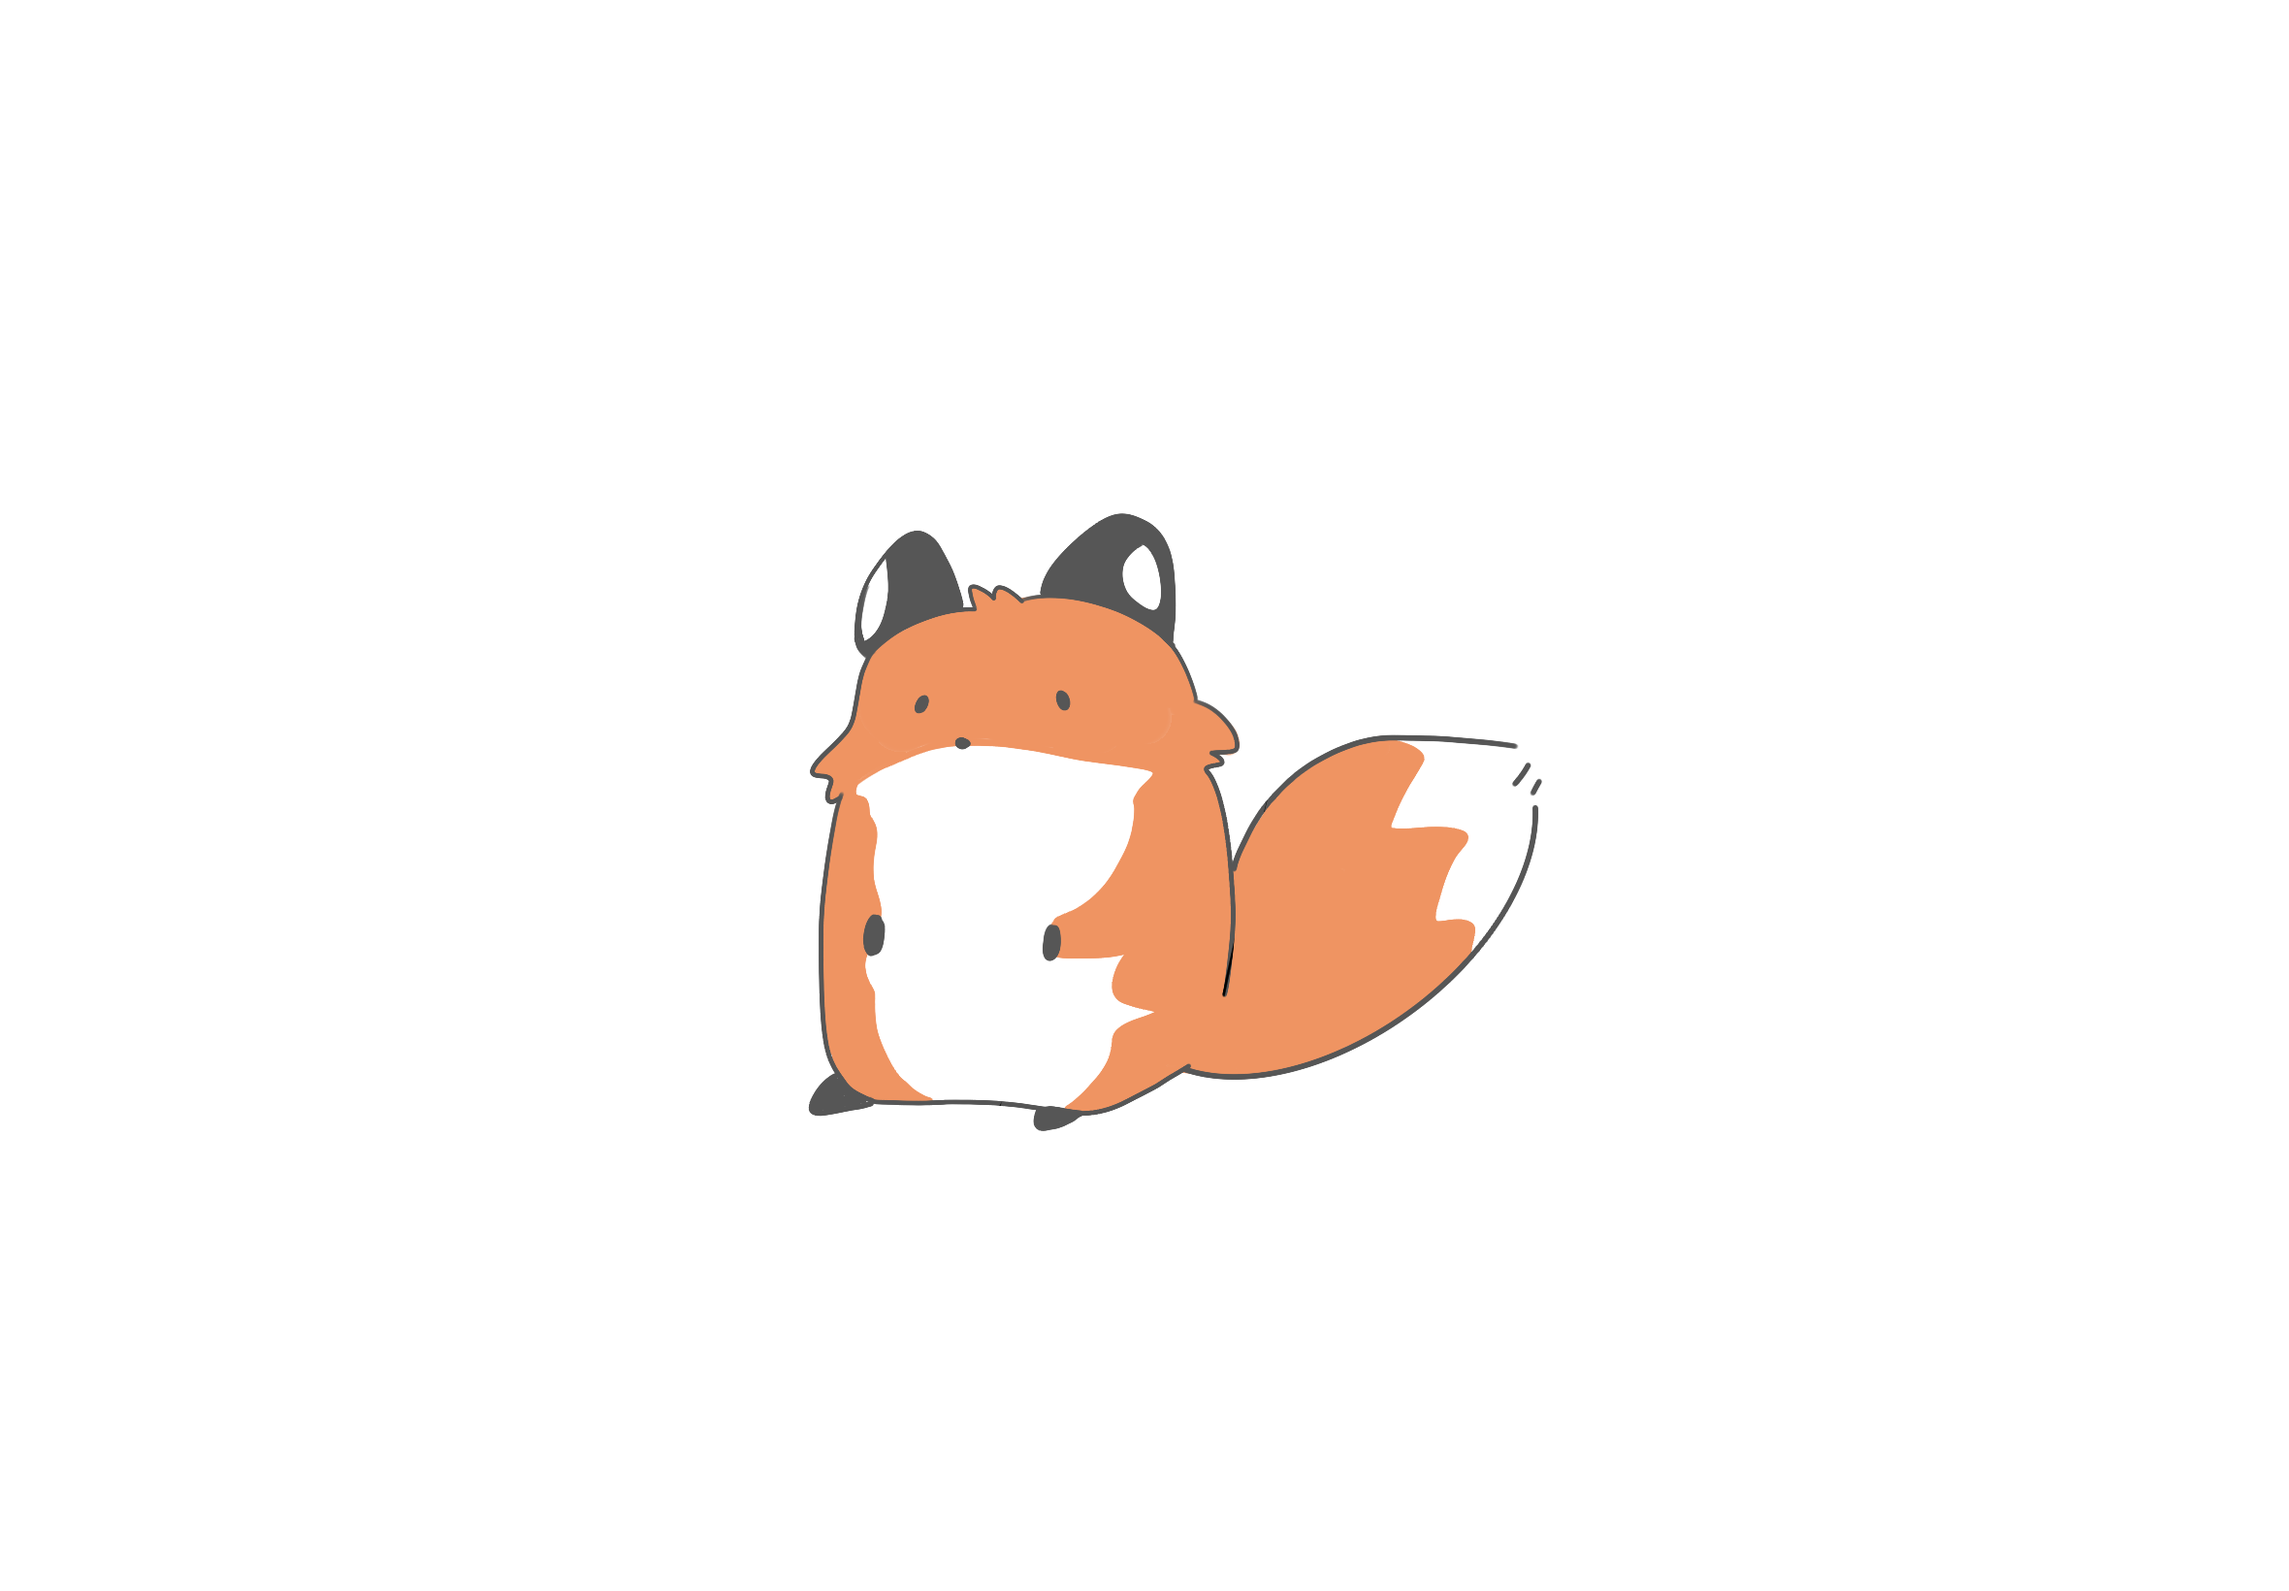
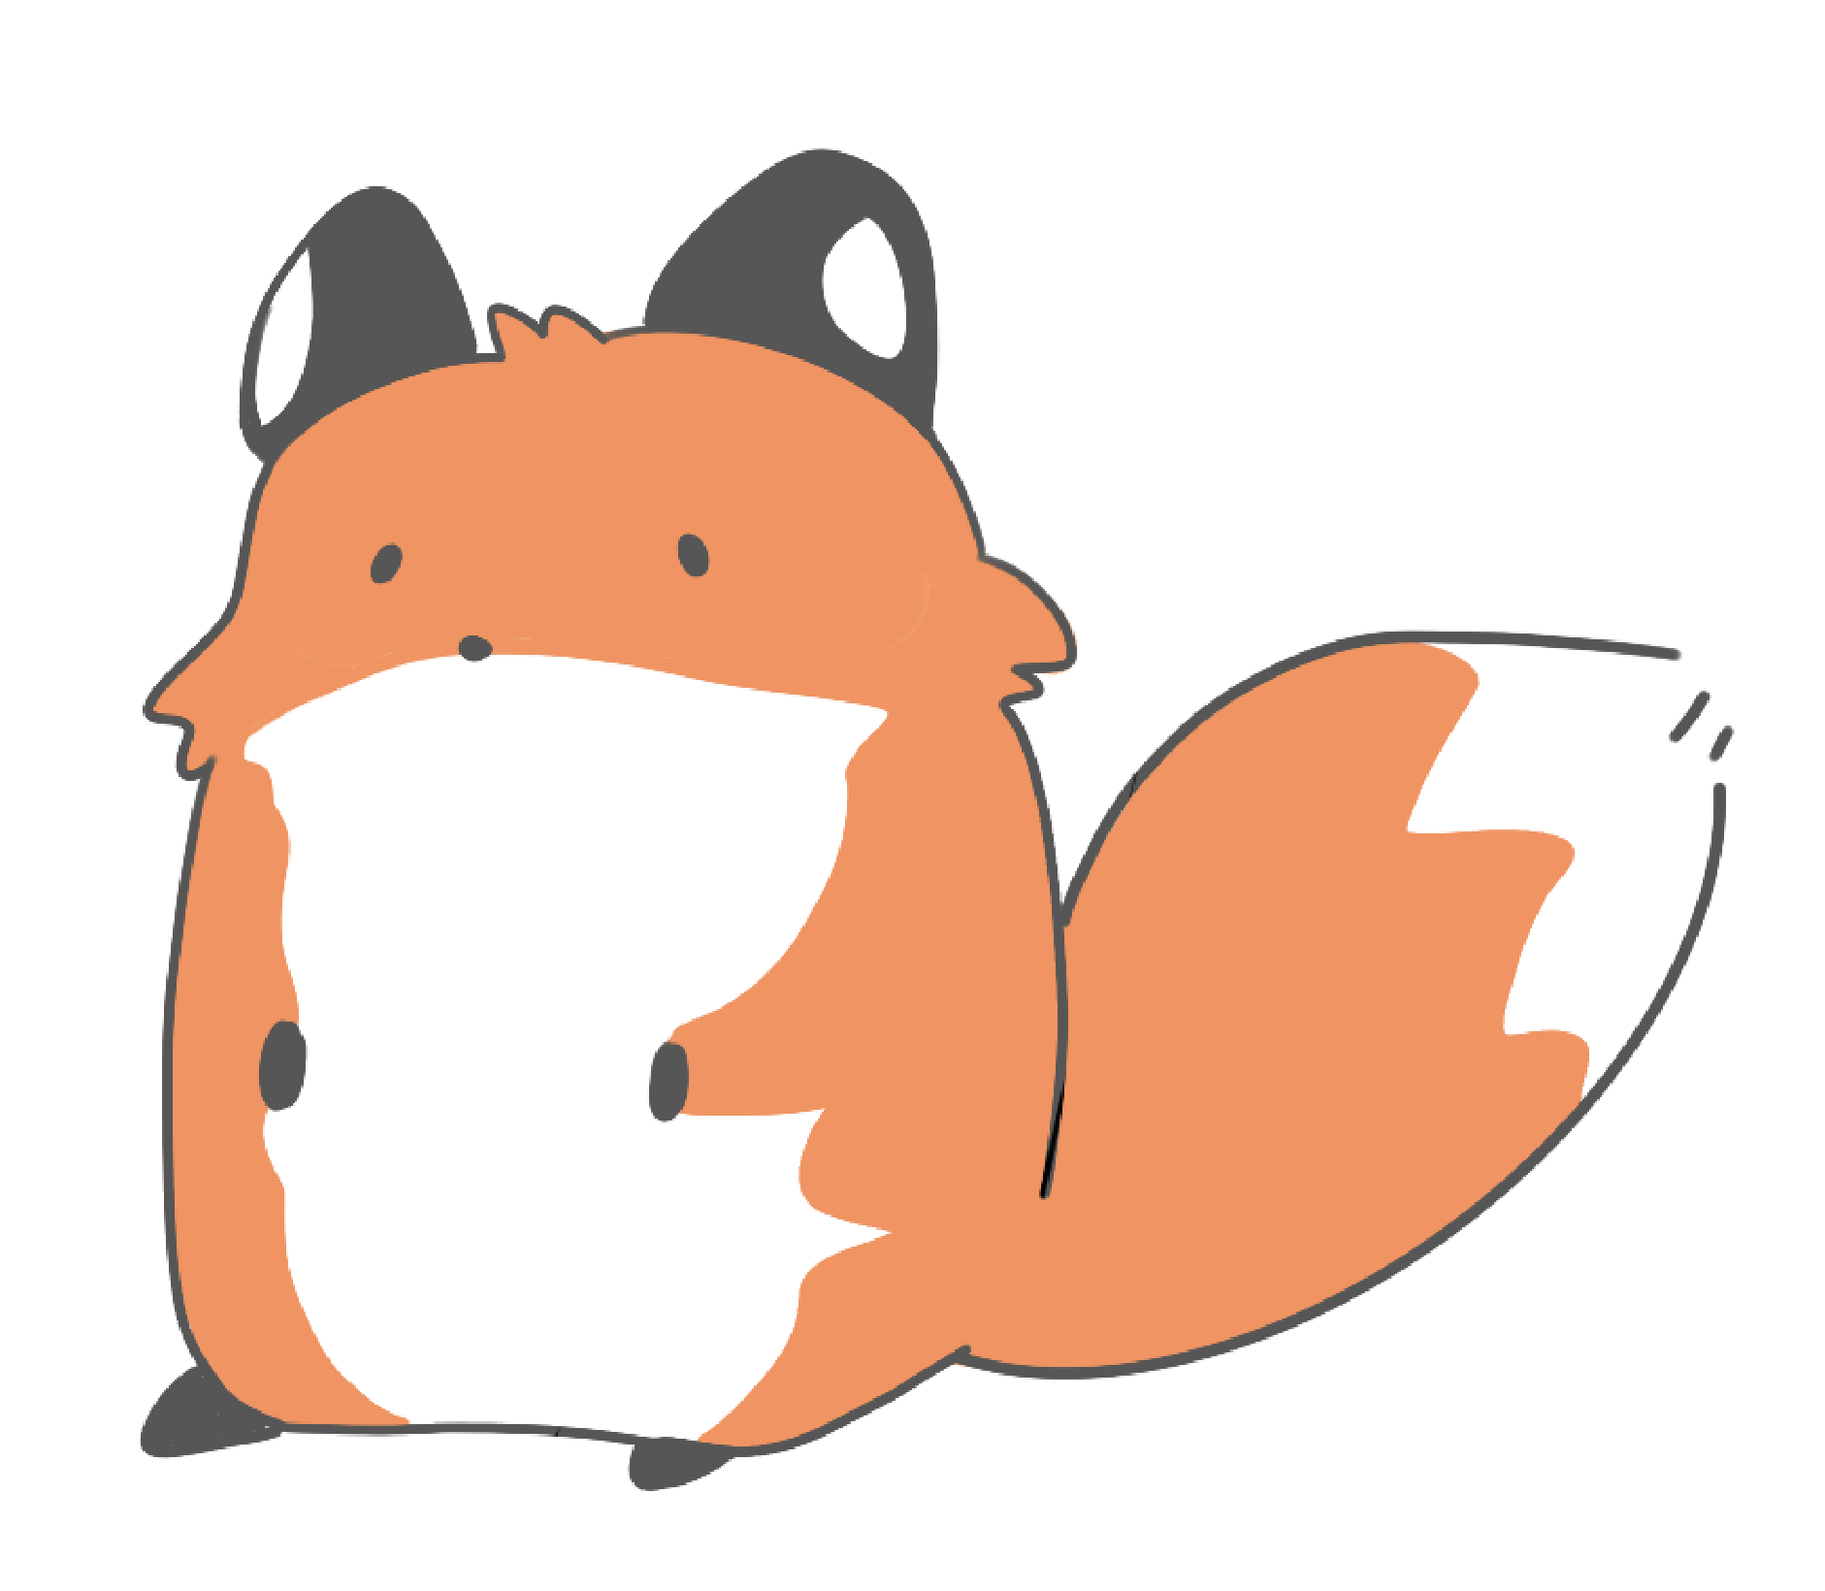
added fat

Changed region(s): [[0.0617, 0.0933, 0.8942, 0.9329], [0.8634, 0.4043, 0.9559, 0.5909], [0.8942, 0.5909, 0.925, 0.653]]

diff --git a/frontend/practice.html b/frontend/practice.html
@@ -21,8 +21,8 @@
         <nav class="navbar">
             <div class="nav-container">
                 <div class="nav-logo">
-                    <span class="logo-icon">🦊</span>
-                    <span class="logo-text">WhatDoesDaFoxSay</span>
+                    <img src="Assets/Fat.png" alt="Fox" class="logo-icon-img">
+                    <img src="Assets/Title.svg" alt="DyslexicJit" class="logo-image">
                 </div>
                 <div class="nav-actions">
                     <button
@@ -48,7 +48,9 @@
                 <section class="welcome-screen" id="welcomeScreen">
                     <div class="welcome-content">
                         <div class="fox-coach">
-                            <div class="fox-mascot">🦊</div>
+                            <div class="fox-mascot">
+                                <img src="Assets/celebrate.gif" alt="Celebrating Fox" class="fox-gif">
+                            </div>
                             <div class="coach-message">
                                 <h1>Ready for Reading Practice?</h1>
                                 <p>
@@ -358,7 +360,7 @@
                         style="display: none"
                     >
                         <div class="completion-card">
-                            <div class="celebration-icon"><img src="Assets/Star.png" alt="Celebration!" class="celebration-icon-img"></div>
+                            <div class="celebration-icon"><img src="Assets/celebrate.gif" alt="Celebration!" class="celebration-icon-img"></div>
                             <h2>Practice Complete!</h2>
                             <p>
                                 You did an amazing job reading today! You've

diff --git a/frontend/struggle.html b/frontend/struggle.html
@@ -13,9 +13,10 @@
 <body>
     <nav class="navbar">
         <div class="nav-container">
-            <div class="nav-logo">
-                <img src="Assets/Title.svg" alt="DyslexicJit" class="logo-image">
-            </div>
+                            <div class="nav-logo">
+                    <img src="Assets/Fat.png" alt="Fox" class="logo-icon-img">
+                    <img src="Assets/Title.svg" alt="DyslexicJit" class="logo-image">
+                </div>
             <div class="nav-actions">
                 <button class="nav-btn" id="backBtn" title="Back to Profile">
                     <i class="fas fa-arrow-left"></i>

diff --git a/frontend/index.html b/frontend/index.html
@@ -22,6 +22,7 @@
         <nav class="navbar">
             <div class="nav-container">
                 <div class="nav-logo">
+                    <img src="Assets/Fat.png" alt="Fox" class="logo-icon-img">
                     <img src="Assets/Title.svg" alt="DyslexicJit" class="logo-image">
                 </div>
                 <div class="nav-actions">

diff --git a/frontend/profile.html b/frontend/profile.html
@@ -21,6 +21,7 @@
         <nav class="navbar">
             <div class="nav-container">
                 <div class="nav-logo">
+                    <img src="Assets/Fat.png" alt="Fox" class="logo-icon-img">
                     <img src="Assets/Title.svg" alt="DyslexicJit" class="logo-image">
                 </div>
                 <div class="nav-actions">

diff --git a/frontend/practicestyles.css b/frontend/practicestyles.css
@@ -82,6 +82,13 @@ body {
     padding: 0 !important;
 }
 
+.nav-logo .logo-icon-img {
+    height: 35px;
+    width: 35px;
+    object-fit: contain;
+    margin-right: 0.5rem;
+}
+
 .logo-icon {
     font-size: 2rem;
 }

diff --git a/frontend/profilestyles.css b/frontend/profilestyles.css
@@ -80,6 +80,13 @@ body {
     padding: 0 !important;
 }
 
+.nav-logo .logo-icon-img {
+    height: 35px;
+    width: 35px;
+    object-fit: contain;
+    margin-right: 0.5rem;
+}
+
 .logo-icon {
     font-size: 2rem;
 }

diff --git a/frontend/strugglestyles.css b/frontend/strugglestyles.css
@@ -83,6 +83,13 @@ body {
     padding: 0 !important;
 }
 
+.nav-logo .logo-icon-img {
+    height: 35px;
+    width: 35px;
+    object-fit: contain;
+    margin-right: 0.5rem;
+}
+
 .logo-icon {
     font-size: 2rem;
 }

diff --git a/frontend/styles.css b/frontend/styles.css
@@ -79,6 +79,13 @@ body {
     padding: 0 !important;
 }
 
+.nav-logo .logo-icon-img {
+    height: 35px;
+    width: 35px;
+    object-fit: contain;
+    margin-right: 0.5rem;
+}
+
 .logo-icon {
     font-size: 2rem;
 }
